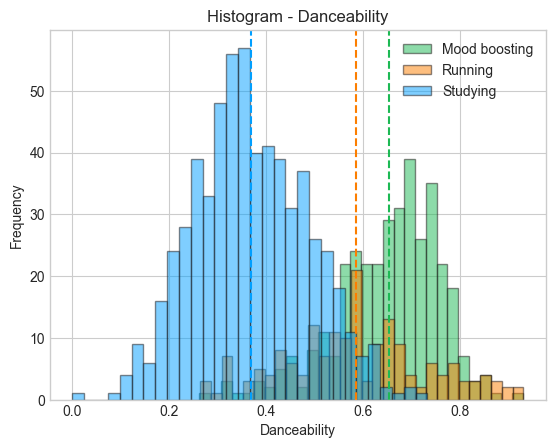
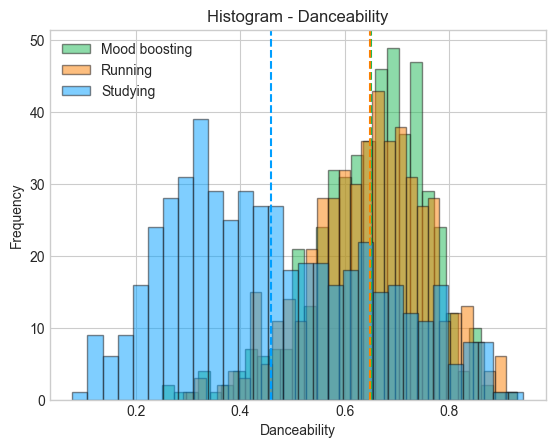
Adjusted input data and first draft of recommender

diff --git a/tables/statistics.tex b/tables/statistics.tex
@@ -2,23 +2,23 @@
 \toprule
    mean &  standard deviation &  standard error &      feature &         group \\
 \midrule
-119.429 &              25.672 &           1.359 &        tempo & mood boosting \\
-127.869 &              29.608 &           2.238 &        tempo &       running \\
-115.602 &              35.325 &           1.429 &        tempo &      studying \\
- -5.633 &               1.737 &           0.092 &     loudness & mood boosting \\
- -4.886 &               1.489 &           0.113 &     loudness &       running \\
--25.236 &               4.797 &           0.194 &     loudness &      studying \\
-  0.694 &               0.151 &           0.008 &       energy & mood boosting \\
-  0.839 &               0.115 &           0.009 &       energy &       running \\
-  0.083 &               0.083 &           0.003 &       energy &      studying \\
-  0.652 &               0.107 &           0.006 & danceability & mood boosting \\
-  0.586 &               0.149 &           0.011 & danceability &       running \\
-  0.368 &               0.118 &           0.005 & danceability &      studying \\
-  0.067 &               0.058 &           0.003 &  speechiness & mood boosting \\
-  0.114 &               0.090 &           0.007 &  speechiness &       running \\
-  0.041 &               0.010 &           0.000 &  speechiness &      studying \\
-  0.548 &               0.208 &           0.011 &      valence & mood boosting \\
-  0.550 &               0.199 &           0.015 &      valence &       running \\
-  0.207 &               0.144 &           0.006 &      valence &      studying \\
+119.162 &              25.645 &           1.153 &        tempo & mood boosting \\
+125.114 &              20.718 &           0.925 &        tempo &       running \\
+119.213 &              31.712 &           1.411 &        tempo &      studying \\
+ -6.157 &               2.272 &           0.102 &     loudness & mood boosting \\
+ -5.947 &               2.016 &           0.090 &     loudness &       running \\
+-20.420 &               7.551 &           0.336 &     loudness &      studying \\
+  0.678 &               0.159 &           0.007 &       energy & mood boosting \\
+  0.783 &               0.116 &           0.005 &       energy &       running \\
+  0.201 &               0.194 &           0.009 &       energy &      studying \\
+  0.650 &               0.110 &           0.005 & danceability & mood boosting \\
+  0.649 &               0.116 &           0.005 & danceability &       running \\
+  0.460 &               0.190 &           0.008 & danceability &      studying \\
+  0.066 &               0.057 &           0.003 &  speechiness & mood boosting \\
+  0.077 &               0.072 &           0.003 &  speechiness &       running \\
+  0.049 &               0.043 &           0.002 &  speechiness &      studying \\
+  0.587 &               0.210 &           0.009 &      valence & mood boosting \\
+  0.565 &               0.214 &           0.010 &      valence &       running \\
+  0.233 &               0.186 &           0.008 &      valence &      studying \\
 \bottomrule
 \end{tabular}

diff --git a/src/main.py b/src/main.py
@@ -67,6 +67,9 @@ def main():
     pd.DataFrame(statistics_list, columns=["mean", "standard deviation", "standard error", "feature", "group"]).to_latex(("../tables/statistics.tex"),index=False)
     pd.DataFrame(t_test_list, columns=["t-value", "p-value", "feature", "group"]).to_latex(("../tables/t_tests.tex"),index=False)
 
+    # get_recommendations(spotify)
+
+    get_recommendations(spotify)
 ################################################################################
 # Functions
 ################################################################################
@@ -180,12 +183,14 @@ def calculate_descriptive_statistics(track_features_map, desired_feature, group)
 
     # Convert nested dictionary to data frame
     track_features_df = pd.DataFrame.from_dict(track_features_map, orient='index')
+
+    # Calculate mean, standard deviation, and standard error
     mean = round(track_features_df[desired_feature].mean(), 3)
     standard_deviation = round(track_features_df[desired_feature].std(), 3)
     standard_error = round(sem(track_features_df[desired_feature]), 3)
-    print(f'M = {mean}, '
-          f'SD = {standard_deviation}, '
-          f'SE = {standard_error}')
+
+    # Print and return mean, standard deviation, and standard error
+    print(f'M = {mean}, SD = {standard_deviation}, SE = {standard_error}')
     return mean, standard_deviation, standard_error, desired_feature, group
 
 
@@ -200,6 +205,25 @@ def t_test(track_features_map_one, track_features_map_two, desired_feature, grou
     p_rounded = round(p, 7)
     print(f't = {t_rounded}  p = {p_rounded}')
     return t_rounded, p_rounded, desired_feature, group
+
+
+def get_artist(spotify, name):
+    results = spotify.search(q='artist:' + name, type='artist')
+    items = results['artists']['items']
+    if len(items) > 0:
+        return items[0]
+    else:
+        return None
+
+
+def get_recommendations(spotify):
+    results = spotify.search(q='artist:Drake', type='artist')
+    items = results['artists']['items']
+
+    results = spotify.recommendations(seed_artists=[items[0]['id']], seed_genres=None, seed_tracks=None, limit=20, country=None)
+
+    for track in results['tracks']:
+        print('Recommendation: %s - %s', track['name'], track['artists'][0]['name'])
 
 
 def read_input_file(file_path):

diff --git a/tables/t_tests.tex b/tables/t_tests.tex
@@ -2,17 +2,17 @@
 \toprule
  t-value &      p-value &      feature &    group \\
 \midrule
-  -3.224 & 1.402100e-03 &        tempo &  running \\
-   1.941 & 5.261900e-02 &        tempo & studying \\
-  -5.138 & 4.000000e-07 &     loudness &  running \\
-  91.278 & 0.000000e+00 &     loudness & studying \\
- -12.255 & 0.000000e+00 &       energy &  running \\
-  70.680 & 0.000000e+00 &       energy & studying \\
-   5.243 & 3.000000e-07 & danceability &  running \\
-  38.400 & 0.000000e+00 & danceability & studying \\
-  -6.278 & 0.000000e+00 &  speechiness &  running \\
-   8.323 & 0.000000e+00 &  speechiness & studying \\
-  -0.144 & 8.855354e-01 &      valence &  running \\
-  27.353 & 0.000000e+00 &      valence & studying \\
+  -4.028 & 6.090000e-05 &        tempo &  running \\
+  -0.028 & 9.777781e-01 &        tempo & studying \\
+  -1.544 & 1.228374e-01 &     loudness &  running \\
+  40.610 & 0.000000e+00 &     loudness & studying \\
+ -11.915 & 0.000000e+00 &       energy &  running \\
+  42.505 & 0.000000e+00 &       energy & studying \\
+   0.222 & 8.241604e-01 & danceability &  running \\
+  19.463 & 0.000000e+00 & danceability & studying \\
+  -2.552 & 1.085460e-02 &  speechiness &  running \\
+   5.331 & 1.000000e-07 &  speechiness & studying \\
+   1.647 & 9.988660e-02 &      valence &  running \\
+  28.200 & 0.000000e+00 &      valence & studying \\
 \bottomrule
 \end{tabular}
